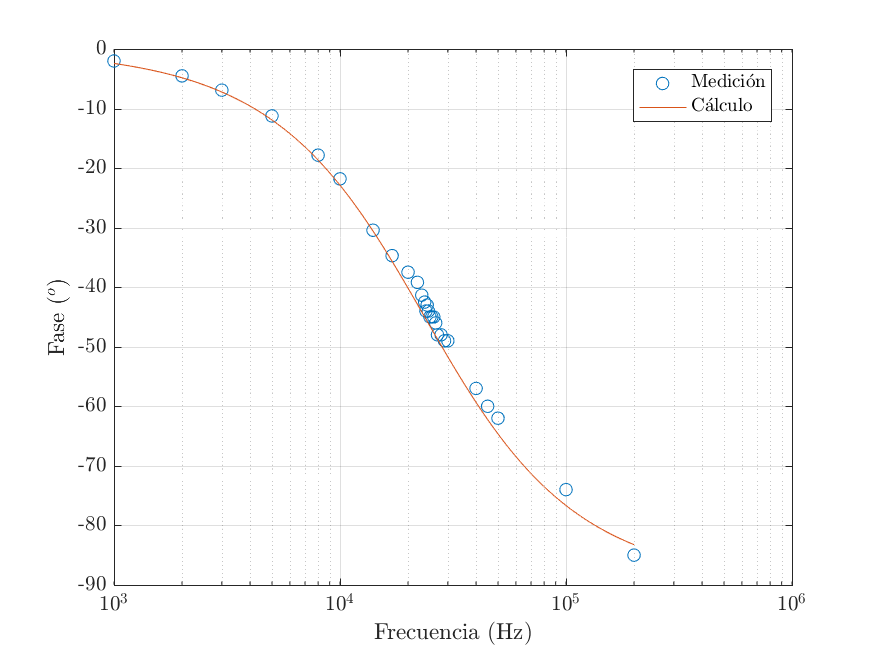
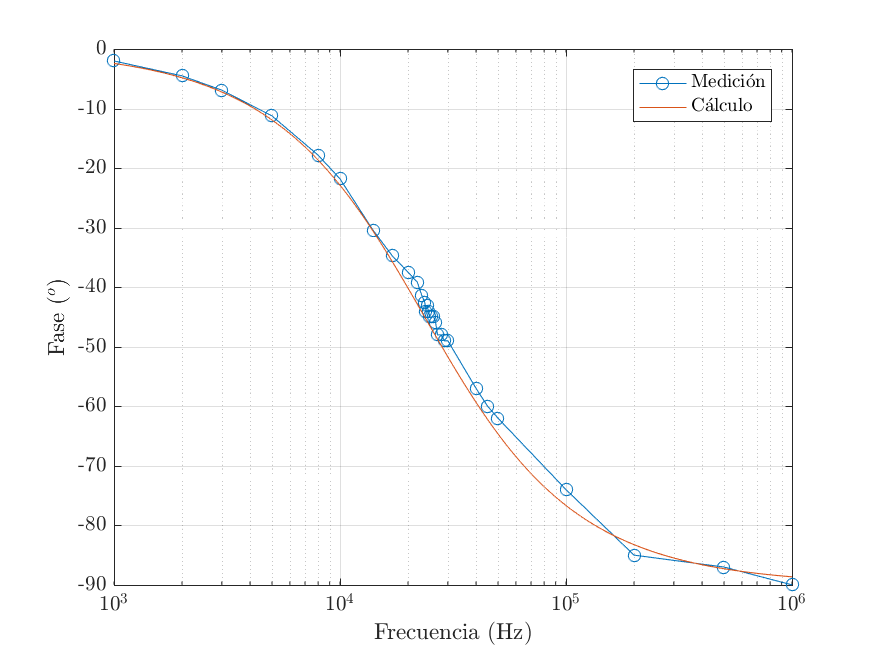
ejercicio 1 listo (se podria revisar)

diff --git a/Codigo Matlab/superponedor.m b/Codigo Matlab/superponedor.m
@@ -11,7 +11,7 @@ function [  ] = superponedor( titulo,medicion, simulacion,H,w,guardar)
 % guardar: si es 'save' guarda el jpg
 
 c_m=csvread(medicion);
- c_s=csvread(simulacion);
+%c_s=csvread(simulacion);
 [mag,phase,wout] = bode(H,w);
 mag=squeeze(mag);
 phase=squeeze(phase);
@@ -20,13 +20,13 @@ wout=wout./(2*pi);
 mag=20*log10(mag);
 magMedida=20*log10(c_m(:,3)./c_m(:,2));
 
-magMedida2=20*log10(c_s(:,3)./c_s(:,2));
+%magMedida2=20*log10(c_s(:,3)./c_s(:,2));
 maginitud=figure('Name','Bode magnitud','NumberTitle','off');
 
-semilogx(c_m(:,1).*1000,magMedida,'o');
+semilogx(c_m(:,1).*1000,magMedida,'o-');
 hold on;
 semilogx(wout,mag);
-semilogx(c_s(:,1)*1000,magMedida2,'o');
+%semilogx(c_s(:,1)*1000,magMedida2,'o');
 % title(titulo);
 % xlabel('Frecuencia (Hz)');
 % ylabel('Magnitud (dB)');
@@ -41,7 +41,7 @@ hold off;
 
 fase=figure('Name','Bode fase','NumberTitle','off');
 
-semilogx(c_m(:,1).*1000,c_m(:,4), 'o');
+semilogx(c_m(:,1).*1000,c_m(:,4), 'o-');
 hold on;
 semilogx(wout,phase);
 % semilogx(c_s(:,1),c_s(:,3),'LineWidth',2);
